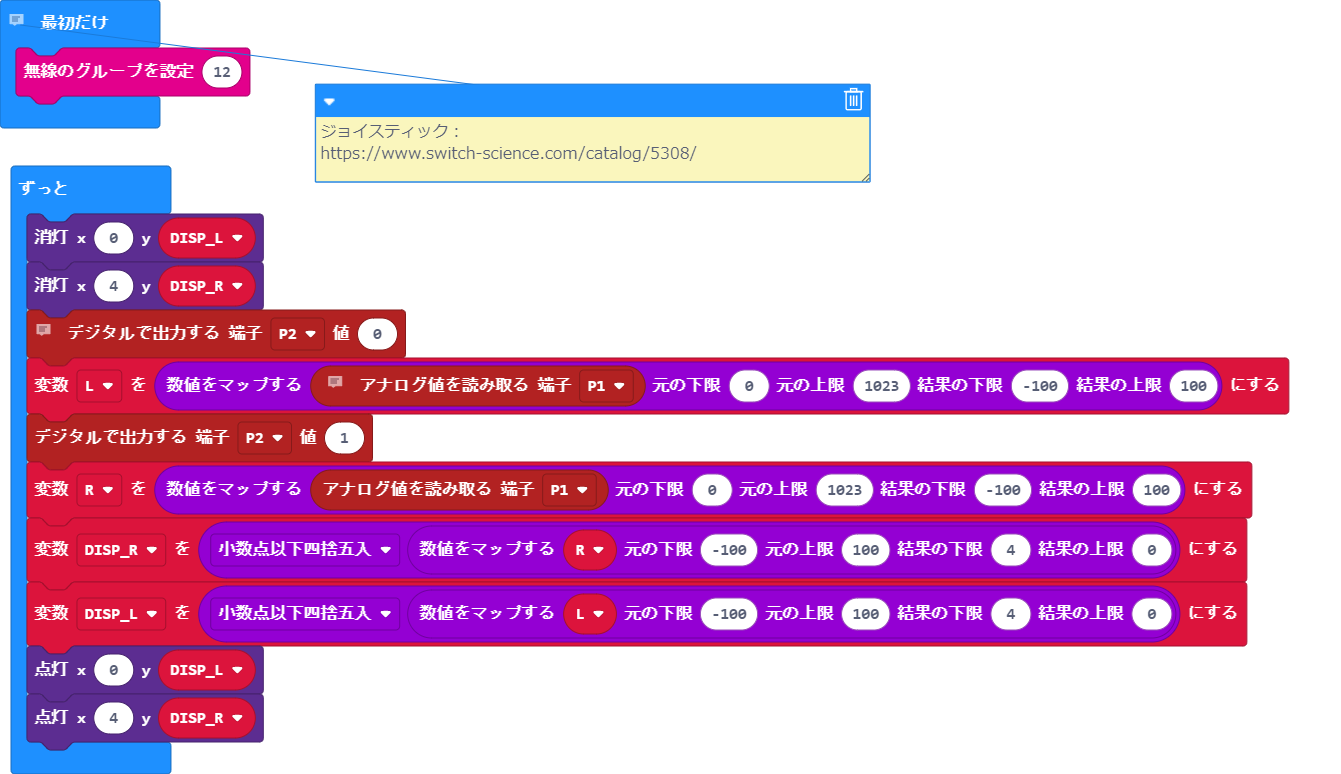
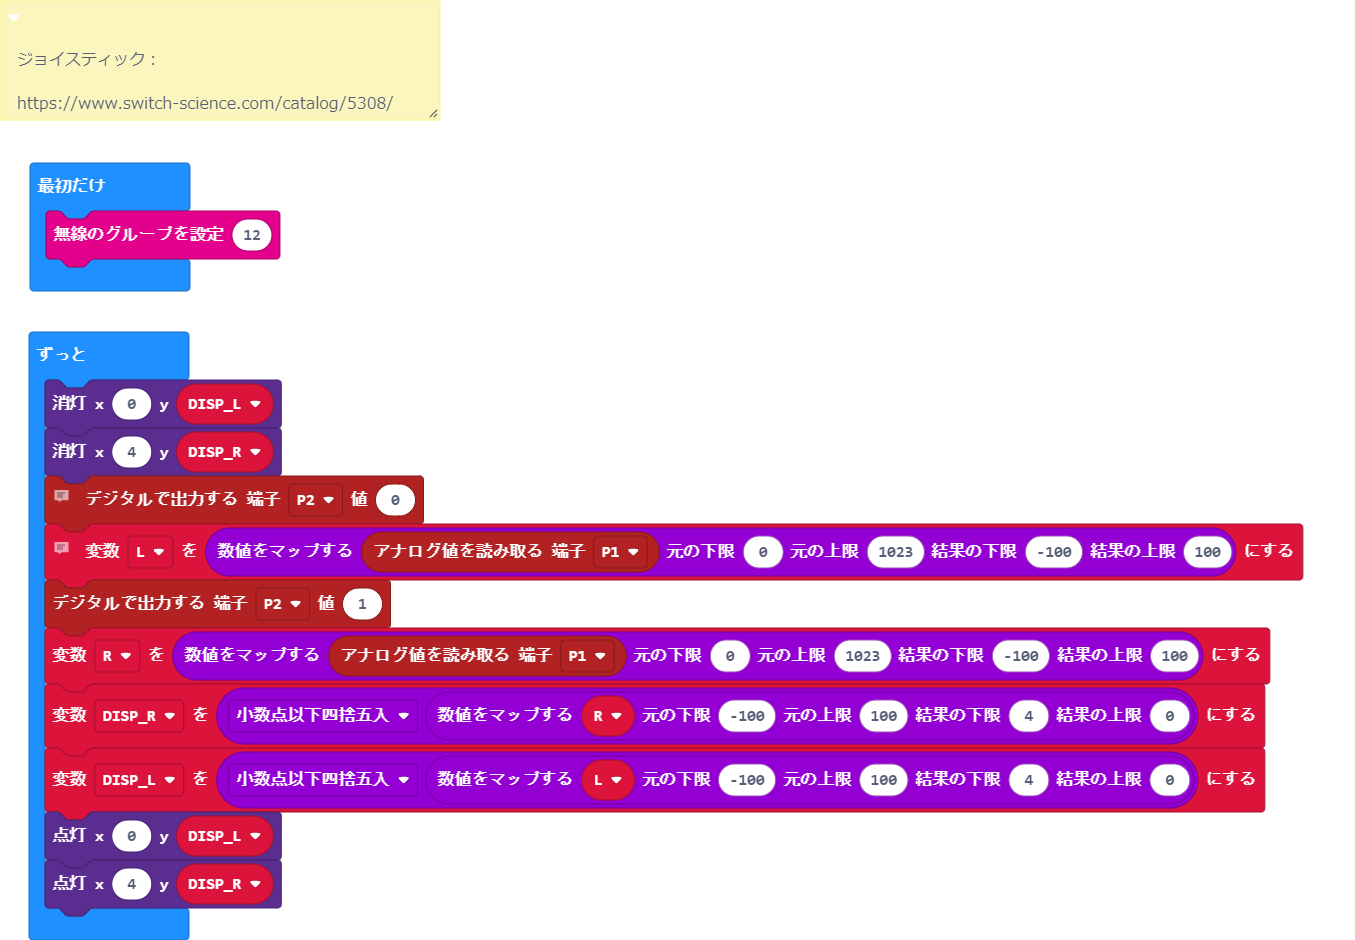
change format comment

diff --git a/main.ts b/main.ts
@@ -1,6 +1,8 @@
-// ジョイスティック：
-// https://www.switch-science.com/catalog/5308/
-// 
+/**
+ * ジョイスティック：
+ * 
+ * https://www.switch-science.com/catalog/5308/
+ */
 let R = 0
 let L = 0
 let DISP_R = 0
@@ -14,8 +16,6 @@ basic.forever(function () {
     pins.digitalWritePin(DigitalPin.P2, 0)
     // P0は横方向
     // P1は縦方向
-    // 
-    //                     
     L = Math.map(pins.analogReadPin(AnalogPin.P1), 0, 1023, -100, 100)
     pins.digitalWritePin(DigitalPin.P2, 1)
     R = Math.map(pins.analogReadPin(AnalogPin.P1), 0, 1023, -100, 100)

diff --git a/main.py b/main.py
@@ -1,0 +1,30 @@
+"""
+
+ジョイスティック：
+
+https://www.switch-science.com/catalog/5308/
+
+"""
+R = 0
+L = 0
+DISP_R = 0
+DISP_L = 0
+radio.set_group(12)
+
+def on_forever():
+    global L, R, DISP_R, DISP_L
+    led.unplot(0, DISP_L)
+    led.unplot(4, DISP_R)
+    # P2:0 左ジョイスティック選択
+    # P2:1 右ジョイスティック選択
+    pins.digital_write_pin(DigitalPin.P2, 0)
+    # P0は横方向
+    # P1は縦方向
+    L = Math.map(pins.analog_read_pin(AnalogPin.P1), 0, 1023, -100, 100)
+    pins.digital_write_pin(DigitalPin.P2, 1)
+    R = Math.map(pins.analog_read_pin(AnalogPin.P1), 0, 1023, -100, 100)
+    DISP_R = Math.round(Math.map(R, -100, 100, 4, 0))
+    DISP_L = Math.round(Math.map(L, -100, 100, 4, 0))
+    led.plot(0, DISP_L)
+    led.plot(4, DISP_R)
+basic.forever(on_forever)
